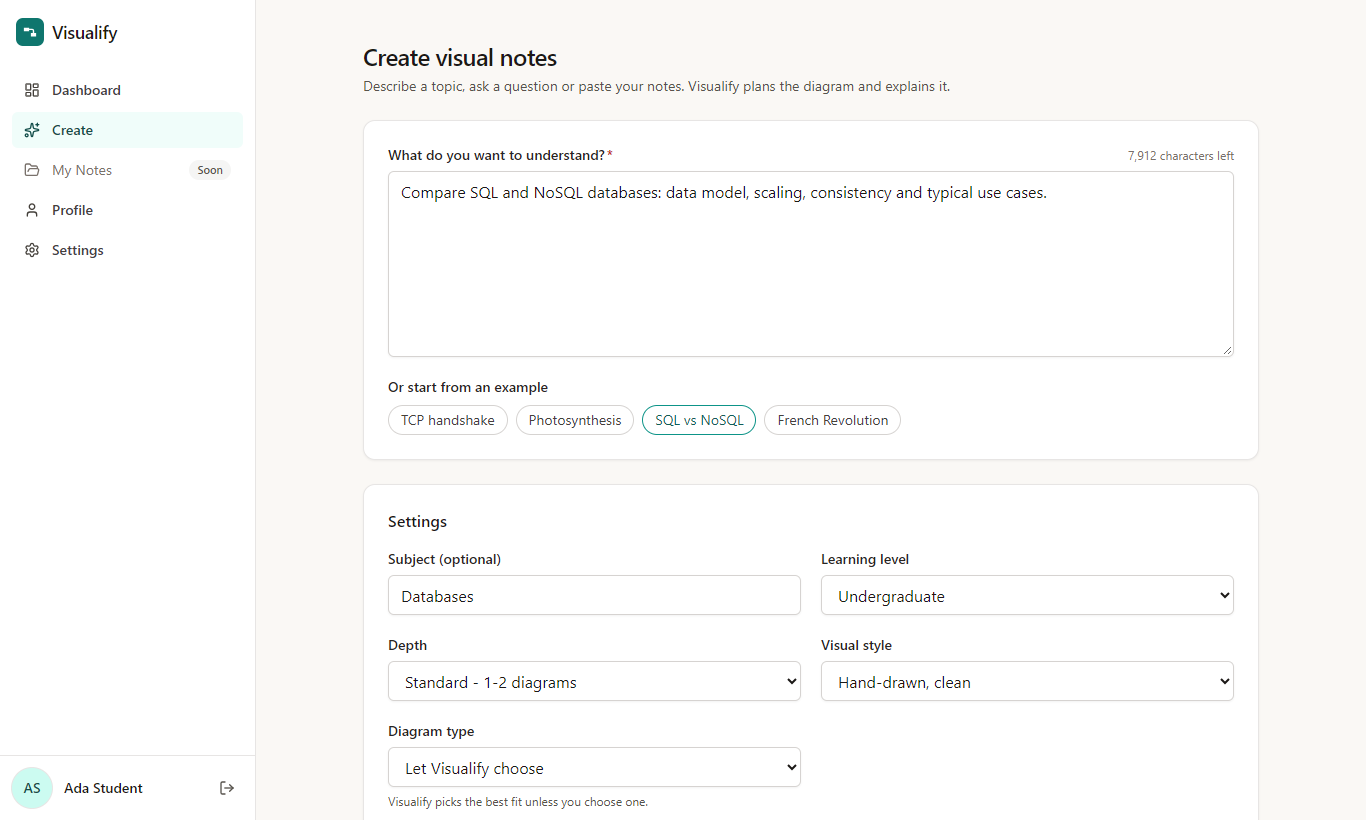
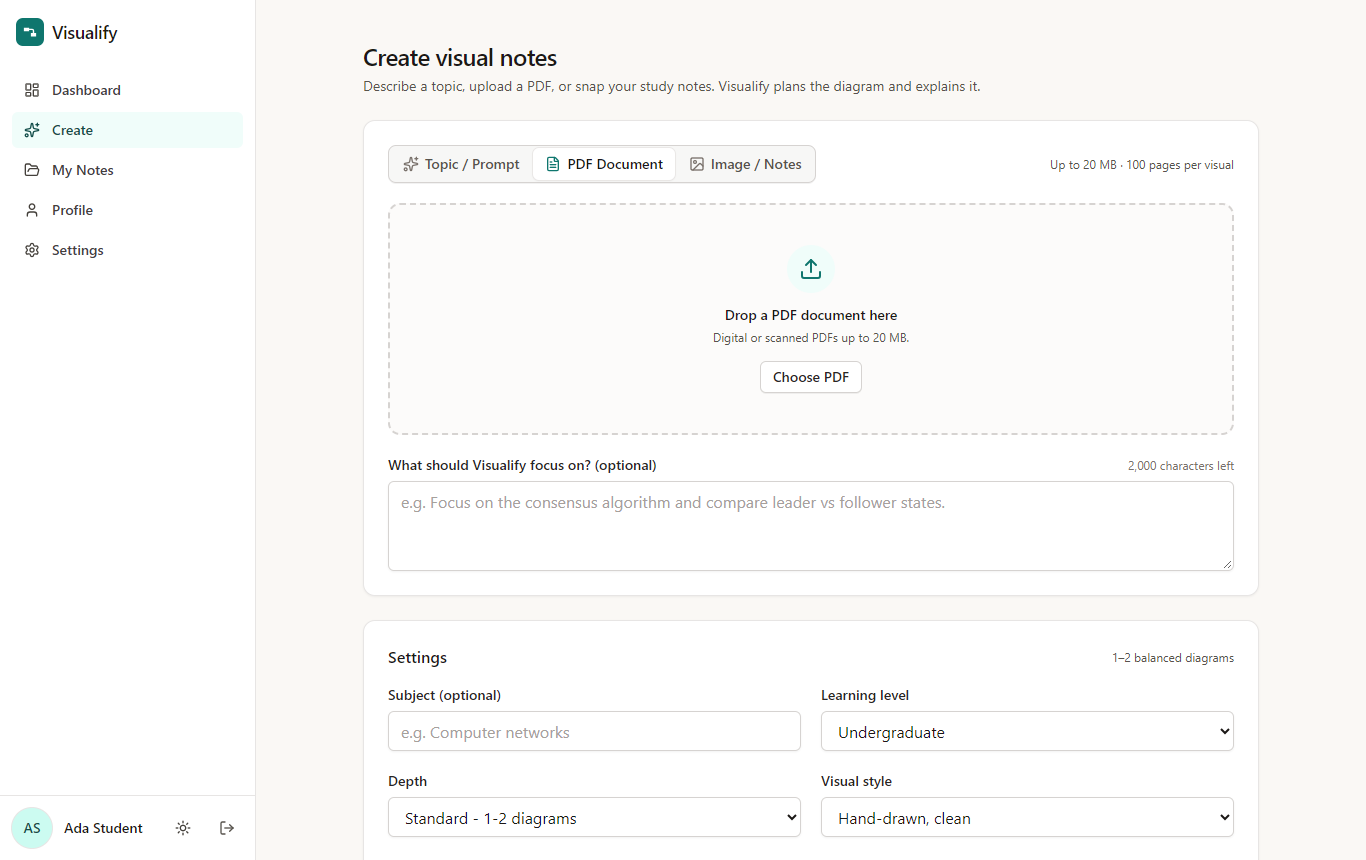
docs: refresh README screenshots and fix CI Chromium detection

diff --git a/README.md b/README.md
@@ -14,41 +14,85 @@ Describe a concept, and Visualify plans the right diagram, draws it as an **edit
   <img alt="Vite 8" src="https://img.shields.io/badge/Vite-8-646CFF?logo=vite&logoColor=white" />
   <img alt="Express 5" src="https://img.shields.io/badge/Express-5-000000?logo=express&logoColor=white" />
   <img alt="Supabase" src="https://img.shields.io/badge/Supabase-Auth%20%7C%20Postgres%20%7C%20Storage-3FCF8E?logo=supabase&logoColor=white" />
-  <img alt="Gemini" src="https://img.shields.io/badge/Gemini-3.5%20Flash-8E75B2?logo=googlegemini&logoColor=white" />
-  <img alt="Excalidraw" src="https://img.shields.io/badge/Excalidraw-0.18-6965DB" />
+  <img alt="Gemini 3.5 Flash-Lite" src="https://img.shields.io/badge/Gemini-3.5%20Flash--Lite-8E75B2?logo=googlegemini&logoColor=white" />
+  <img alt="Excalidraw 0.18" src="https://img.shields.io/badge/Excalidraw-0.18-6965DB" />
 </p>
 <p>
-  <img alt="Phase 6.5 offline & E2E verified" src="https://img.shields.io/badge/status-Phase%206.5%20verified%20(awaiting%200010%20live)-0f766e" />
-  <img alt="JavaScript only" src="https://img.shields.io/badge/language-JavaScript%20(ESM)-F7DF1E?logo=javascript&logoColor=black" />
+  <img alt="Phase 6.5 verified" src="https://img.shields.io/badge/status-Phase%206.5%20ready%20(awaiting%200010%20live)-0f766e" />
+  <img alt="JavaScript ESM" src="https://img.shields.io/badge/language-JavaScript%20(ESM)-F7DF1E?logo=javascript&logoColor=black" />
   <img alt="RLS verified" src="https://img.shields.io/badge/RLS-68%20SQL%20%7C%2021%20live-0f766e" />
+  <img alt="Playwright & Axe" src="https://img.shields.io/badge/E2E%20%2B%20WCAG%20AA-79%20passed-0f766e" />
 </p>
 
-[**Quick start**](#-quick-start) · [**How it works**](#-how-it-works) · [**API**](#-api-reference) · [**Testing**](#-testing) · [**Roadmap**](#-roadmap) · [**Docs**](#-documentation)
+[**Product tour**](#-product-tour) · [**Diagrams**](#-rendered-diagrams) · [**How it works**](#-how-it-works) · [**Quick start**](#-quick-start) · [**API**](#-api-reference) · [**Testing**](#-testing) · [**Roadmap**](#-roadmap)
 
 </div>
 
 ---
 
+## 🖼 Product Tour
+
 <table>
   <tr>
-    <td width="50%"><img src="docs/assets/create.png" alt="Create page with prompt, examples and generation settings" /></td>
-    <td width="50%"><img src="docs/assets/progress.png" alt="Live generation progress with stages and cancel" /></td>
+    <td colspan="2"><img src="docs/assets/workspace-dark.png" alt="Visualify Dark Mode Excalidraw Workspace with Outline, Frame Controls, Focus, Section Regeneration, and Study Assistant" /></td>
   </tr>
   <tr>
-    <td align="center"><b>1. Describe a topic</b><br/><sub>Prompt, examples and settings</sub></td>
-    <td align="center"><b>2. Watch it build</b><br/><sub>Live progress over SSE, cancellable</sub></td>
+    <td colspan="2" align="center"><b>Interactive Excalidraw Workspace (Dark Mode)</b><br/><sub>Section outline · multi-frame canvas · Focus & non-destructive section regeneration · Study Assistant</sub></td>
   </tr>
   <tr>
-    <td colspan="2"><img src="docs/assets/workspace.png" alt="Visual workspace: outline, editable Excalidraw canvas and explanation" /></td>
+    <td width="50%"><img src="docs/assets/landing.png" alt="Visualify landing page with interactive multi-diagram sequence/flowchart/mindmap/comparison switcher" /></td>
+    <td width="50%"><img src="docs/assets/create.png" alt="Create page supporting Topic prompts, PDF documents with page selection, and handwritten note images" /></td>
   </tr>
   <tr>
-    <td colspan="2" align="center"><b>3. Learn and edit</b><br/><sub>Outline · editable canvas · section-by-section explanation</sub></td>
+    <td align="center"><b>1. Interactive Landing Showcase</b><br/><sub>Live diagram preview & theme switcher</sub></td>
+    <td align="center"><b>2. Prompts, PDFs & Note Photos</b><br/><sub>Up to 20 MB · PDF page ranges · EXIF-safe images</sub></td>
+  </tr>
+  <tr>
+    <td width="50%"><img src="docs/assets/study-quiz.png" alt="Study Companion Quick Quiz view with persistent score, difficulty levels, Flashcards, Revision Sheet, and Ask This Note tabs" /></td>
+    <td width="50%"><img src="docs/assets/present-dark.png" alt="Full-bleed multi-frame Presentation Mode with slide filmstrip and speaker notes" /></td>
+  </tr>
+  <tr>
+    <td align="center"><b>3. Study Companion Suite</b><br/><sub>Quick Quiz · Flashcards · Revision Sheet · Ask Note</sub></td>
+    <td align="center"><b>4. Multi-Frame Presentation Mode</b><br/><sub>Keyboard shortcuts · slide filmstrip · speaker notes</sub></td>
+  </tr>
+  <tr>
+    <td width="65%"><img src="docs/assets/dashboard-dark.png" alt="Authenticated Dashboard showing monthly quota meter, recent notes, and library summary in Dark Mode" /></td>
+    <td width="35%" align="center"><img src="docs/assets/mobile-study-dark.png" alt="Mobile Dark Mode view of Study Companion Quick Quiz with accessible touch targets" width="240" /></td>
+  </tr>
+  <tr>
+    <td align="center"><b>5. Dashboard & Fail-Closed Quota Meter</b><br/><sub>Real-time monthly credits with auto-refunds on 5xx</sub></td>
+    <td align="center"><b>6. Mobile-First Responsive UI</b><br/><sub>Zero horizontal overflow · 44px touch targets</sub></td>
+  </tr>
+</table>
+
+---
+
+## 🎨 Rendered Diagrams
+
+Every diagram below is generated server-side into **editable Excalidraw scenes** (`@excalidraw/cli` + Chromium for Mermaid types; deterministic container-bound geometry for Mind Maps & Comparisons) with bound text, connectors, and PNG/SVG/JSON export:
+
+<table>
+  <tr>
+    <td width="50%" align="center"><img src="docs/assets/diagram-sequence.png" alt="TCP Three-Way Handshake sequence diagram rendered via Visualify Excalidraw pipeline" /></td>
+    <td width="50%" align="center"><img src="docs/assets/diagram-comparison.png" alt="SQL vs NoSQL side-by-side comparison diagram with Key Takeaway footer" /></td>
+  </tr>
+  <tr>
+    <td align="center"><b>Sequence Diagram</b> (<code>sequenceDiagram</code> → Excalidraw)</td>
+    <td align="center"><b>Comparison Matrix</b> (Deterministic Grid + Key Takeaway)</td>
+  </tr>
+  <tr>
+    <td width="65%" align="center"><img src="docs/assets/diagram-mindmap.png" alt="Operating Systems radial mind map with teal, indigo, and amber color-coded branches" /></td>
+    <td width="35%" align="center"><img src="docs/assets/diagram-er.png" alt="User and Note Entity-Relationship diagram with crow's-foot cardinality" width="220" /></td>
+  </tr>
+  <tr>
+    <td align="center"><b>Mind Map</b> (Central Hero + Color-Coded Branches)</td>
+    <td align="center"><b>ER Diagram</b> (Typed Attributes + Cardinality)</td>
   </tr>
 </table>
 
 > [!NOTE]
-> **Status: Phase 6.5 (Launch Close-Out, Single-Image Split Roles, AI Quality Eval Set, Quota Refunds & PRD §14 Telemetry) is implemented and verified**, with offline suites (`95` worker, `242` API, `68` PGlite SQL, `75` frontend unit), `79` Playwright E2E + Axe WCAG 2 AA tests, production bundle build (`0` `.map` files), lint (`126` JS files), live `eval:quality` (`30/30` on `gemini-3.5-flash-lite`), and `dockerSmoke.js` passing.
-> Live RLS checks pass `21/22` (`0009` verified live) with `1` skipped awaiting owner-applied `supabase/migrations/0010_launch_closeout.sql` (`npm run test:rls:live`). Live staging deploy and container image build in CI run on GitHub Actions / Render / Vercel.
+> **Status: Phase 6.5 (Launch Close-Out, Single-Image Split Roles, 30-Fixture AI Quality Eval, Quota Refunds & Zero-PII Launch Telemetry) is implemented and verified**, with offline suites (`95` worker, `242` API, `68` PGlite SQL, `75` frontend unit), `79` Playwright E2E + Axe WCAG 2 AA tests, production bundle build (`0` `.map` files), lint (`126` JS files), live `eval:quality` (`30/30` on `gemini-3.5-flash-lite`), and `dockerSmoke.js` passing.
+> Live RLS checks pass `21/22` (`0009` verified live) with `1` skipped awaiting owner-applied [`supabase/migrations/0010_launch_closeout.sql`](supabase/migrations/0010_launch_closeout.sql) (`npm run test:rls:live`). Phase 7 expansion remains intentionally gated per [`PRD.MD` §17](PRD.MD) until live telemetry validates demand.
 
 <details>
 <summary><b>📑 Table of contents</b></summary>
@@ -98,20 +142,20 @@ Visualify **separates thinking from drawing**: the model decides *what to teach 
 
 ```mermaid
 flowchart LR
-    U(["👤 Learner"]) -->|prompt + settings| FE["React SPA<br/>Vite · Tailwind · TanStack Query"]
-    FE -->|"REST + SSE<br/>Bearer JWT"| API["Express API<br/>helmet · CORS · rate limits · Zod"]
+    U(["👤 Learner"]) -->|prompt / PDF / image| FE["React SPA<br/>Vite · Tailwind · TanStack Query"]
+    FE -->|"REST + SSE<br/>Bearer JWT"| API["Express API (PROCESS_ROLE=api)<br/>helmet · CORS · rate limits · Zod"]
     FE -->|Auth SDK| AUTH[("Supabase Auth")]
     API -->|verify JWT| AUTH
-    API -->|enqueue| Q["In-process job queue<br/>AbortController per job"]
-    Q --> P["Generation pipeline"]
-    P -->|"untrusted-input<br/>delimited prompt"| G["Gemini 3.5 Flash<br/>structured JSON"]
-    P --> R{"Visual type<br/>router"}
-    R -->|"flowchart · sequence · timeline<br/>er_diagram · class_diagram"| M["Mermaid → Excalidraw CLI<br/>headless Chrome"]
+    API -->|"enqueue + pub/sub"| Q["BullMQ + Redis<br/>or InProcessQueue (dev)"]
+    Q --> W["Worker Role (PROCESS_ROLE=worker)<br/>Pipeline + RenderSemaphore"]
+    W -->|"untrusted-input<br/>delimited prompt"| G["Gemini 3.5 Flash-Lite<br/>(+ fallback chain)"]
+    W --> R{"Visual type<br/>router"}
+    R -->|"flowchart · sequence · timeline<br/>er_diagram · class_diagram"| M["Mermaid → Excalidraw CLI<br/>headless Chromium"]
     R -->|"mindmap · comparison"| D["Direct scene adapter"]
-    M --> C["Scene composer<br/>+ validation"]
+    M --> C["Multi-Frame Composer<br/>+ validation"]
     D --> C
-    C -->|"service-role write<br/>owner-filtered"| DB[("Supabase Postgres<br/>generation_jobs · RLS")]
-    P -. events .-> API
+    C -->|"service-role write<br/>usage & product_events"| DB[("Supabase Postgres<br/>RLS · Storage")]
+    W -. Redis SSE .-> API
     API -. SSE .-> FE
 ```
 
